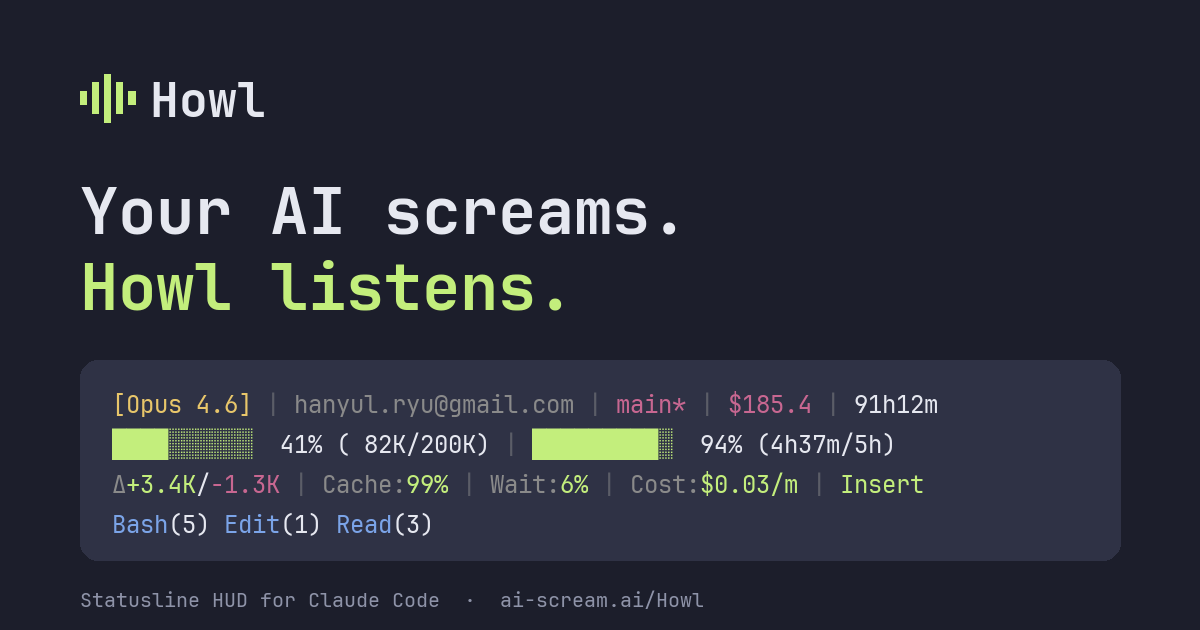
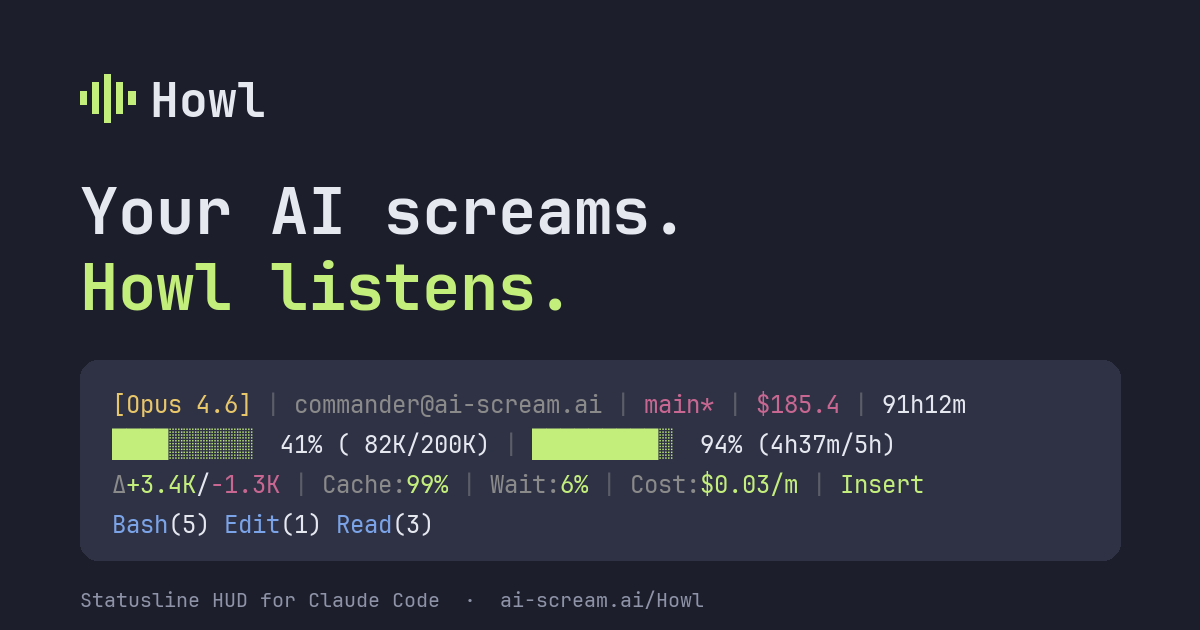
docs(site): strip template decoration, unify spacing and restore focus rings
Remove the hero glow, the pill eyebrow and the gradient headline word;
left-align the section introductions; flatten the feature cards; turn
the sponsor block into one line; replace two stock headings. Spacing
now sits on a 4/8 scale with three radii and a five-step type scale,
and every link and button shows a focus ring again. The demo account
becomes commander@ai-scream.ai in the page and the OG image.

Changed region(s): [[0.2467, 0.6333, 0.8017, 0.6635]]

diff --git a/site/index.html b/site/index.html
@@ -33,63 +33,62 @@
 }
 *{box-sizing:border-box}
 html{background:var(--bg)}
-body{margin:0;background:var(--bg);color:var(--text);font:16px/1.65 var(--body);padding-inline:clamp(16px,4vw,48px);overflow-x:hidden}
+body{margin:0;background:var(--bg);color:var(--text);font:16px/1.65 var(--body);padding-inline:clamp(16px,4vw,48px)}
 a{color:inherit}
+a:focus-visible,button:focus-visible{outline:2px solid var(--lime);outline-offset:3px}
 .wrap{max-width:1040px;margin:0 auto;position:relative}
-.moon{position:absolute;left:50%;top:-140px;width:720px;height:720px;max-width:100vw;transform:translateX(-50%);border-radius:50%;background:radial-gradient(circle at 50% 40%,rgba(195,238,124,.16),rgba(200,103,145,.09) 45%,transparent 70%);pointer-events:none;filter:blur(6px)}
-nav{position:relative;display:flex;align-items:center;justify-content:space-between;gap:16px;padding-block:22px;font-size:14px}
-.mark{display:flex;align-items:center;gap:10px;font-family:var(--display);font-weight:800;font-size:20px;letter-spacing:-.01em;text-decoration:none}
+nav{position:relative;display:flex;align-items:center;justify-content:space-between;gap:16px;padding-block:24px;font-size:14px}
+.mark{display:flex;align-items:center;gap:8px;font-family:var(--display);font-weight:800;font-size:20px;letter-spacing:-.01em;text-decoration:none}
 .mark svg{display:block}
-nav ul{display:flex;gap:6px;list-style:none;margin:0;padding:0}
-nav ul a{text-decoration:none;color:var(--muted);padding:8px 12px;border-radius:999px}
-nav ul a:hover,nav ul a:focus-visible{background:var(--card);color:var(--text);outline:none}
-.hero{position:relative;text-align:center;padding-block:56px 40px;display:grid;gap:22px;justify-items:center}
-.pill{display:inline-flex;gap:8px;align-items:center;font-size:13px;color:var(--lime);background:rgba(195,238,124,.10);border:1px solid rgba(195,238,124,.25);border-radius:999px;padding:6px 14px}
-h1{font-family:var(--display);font-weight:800;font-size:clamp(42px,7.5vw,88px);line-height:1;letter-spacing:-.03em;margin:0;text-wrap:balance;max-width:12ch}
-h1 span{background:linear-gradient(90deg,var(--lime),var(--gold));-webkit-background-clip:text;background-clip:text;color:transparent}
-.lead{max-width:58ch;color:var(--muted);font-size:19px;margin:0}
+nav ul{display:flex;gap:8px;list-style:none;margin:0;padding:0}
+nav ul a{text-decoration:none;color:var(--muted);padding:8px 12px;border-radius:8px}
+nav ul a:hover{background:var(--card);color:var(--text)}
+.hero{position:relative;text-align:center;padding-block:56px 40px;display:grid;gap:24px;justify-items:center}
+.meta{margin:0;font:14px var(--mono);letter-spacing:.08em;color:var(--muted)}
+h1{font-family:var(--display);font-weight:800;font-size:clamp(48px,7.5vw,88px);line-height:1;letter-spacing:-.03em;margin:0;text-wrap:balance;max-width:12ch}
+h1 span{color:var(--lime)}
+.lead{max-width:58ch;color:var(--muted);font-size:20px;margin:0}
 .cta{display:flex;flex-wrap:wrap;gap:12px;justify-content:center}
-.btn{font:600 15px var(--body);border-radius:12px;padding:13px 22px;text-decoration:none;cursor:pointer;border:1px solid transparent}
+.btn{font:600 16px var(--body);border-radius:8px;padding:12px 24px;text-decoration:none;cursor:pointer;border:1px solid transparent}
 .btn-p{background:var(--lime);color:#1c1e2b}
-.btn-p:hover,.btn-p:focus-visible{background:#d9f7a0;outline:none}
+.btn-p:hover{background:#d9f7a0}
 .btn-s{background:var(--card);color:var(--text);border-color:var(--rule)}
-.btn-s:hover,.btn-s:focus-visible{border-color:var(--muted);outline:none}
+.btn-s:hover{border-color:var(--muted)}
 
-.hud-frame{width:100%;border:1px solid var(--rule);border-radius:16px;background:#2f3245;box-shadow:0 30px 80px rgba(0,0,0,.5),0 0 0 1px rgba(255,255,255,.03) inset;overflow:hidden;text-align:left}
-.hud-bar{display:flex;justify-content:space-between;align-items:center;flex-wrap:wrap;gap:10px 16px;padding:10px 14px;background:#272a3b;border-bottom:1px solid #3b3f55}
-.dots{display:flex;gap:6px}.dots i{width:10px;height:10px;border-radius:50%;background:#4a4e66;display:block}
+.hud-frame{width:100%;border:1px solid var(--rule);border-radius:12px;background:#2f3245;box-shadow:0 30px 80px rgba(0,0,0,.5),0 0 0 1px rgba(255,255,255,.03) inset;overflow:hidden;text-align:left}
+.hud-bar{display:flex;justify-content:space-between;align-items:center;flex-wrap:wrap;gap:8px 16px;padding:12px 16px;background:#272a3b;border-bottom:1px solid #3b3f55}
+.dots{display:flex;gap:8px}.dots i{width:10px;height:10px;border-radius:50%;background:#4a4e66;display:block}
 .tabs{display:flex;flex-wrap:wrap;gap:4px}
-.tabs button,.seg button{font:600 12px var(--body);color:#aeb3c7;background:transparent;border:0;border-radius:8px;padding:6px 10px;cursor:pointer}
+.tabs button,.seg button{font:600 14px var(--body);color:#aeb3c7;background:transparent;border:0;border-radius:8px;padding:8px 12px;min-height:36px;cursor:pointer}
 .tabs button:hover,.seg button:hover{color:var(--text);background:#3b3f55}
-.tabs button:focus-visible,.seg button:focus-visible{outline:2px solid var(--lime);outline-offset:1px}
 .tabs button[aria-pressed="true"]{background:#3b3f55;color:var(--text)}
-.seg{display:flex;gap:2px;background:#1f2231;border-radius:10px;padding:2px}
+.seg{display:flex;gap:2px;background:#1f2231;border-radius:8px;padding:2px}
 .seg button[aria-pressed="true"]{background:var(--lime);color:#1c1e2b}
 .seg button[disabled]{opacity:.35;cursor:default}
-.hud{color:#d8dbe6;font:14px/1.75 var(--mono);padding:14px 16px;overflow-x:auto;white-space:pre;font-variant-numeric:tabular-nums;margin:0;min-height:calc(14px*1.75*4 + 28px)}
+.hud{color:#d8dbe6;font:14px/1.75 var(--mono);padding:16px;overflow-x:auto;white-space:pre;font-variant-numeric:tabular-nums;margin:0;min-height:calc(14px*1.75*4 + 32px)}
 .hud .sep{color:#5b5d67}.hud .grey{color:#a3a7b8}.hud .dim{color:#979bad}.hud .gold{color:#e8c66a}.hud .lime{color:#c3ee7c}.hud .pink{color:#c86791}.hud .orange{color:#ff8700}.hud .blue{color:#7ba4e8}.hud .cyan{color:#6ccbd9}.hud .b{font-weight:700}
-.hud-foot{display:flex;justify-content:space-between;flex-wrap:wrap;gap:6px 16px;padding:8px 16px;border-top:1px solid #3b3f55;font:12px var(--mono);color:#a3a7b8}
+.hud-foot{display:flex;justify-content:space-between;flex-wrap:wrap;gap:8px 16px;padding:8px 16px;border-top:1px solid #3b3f55;font:14px var(--mono);color:#a3a7b8}
 
-.install{width:100%;max-width:640px;display:grid;grid-template-columns:1fr auto;border:1px solid var(--rule);border-radius:14px;background:var(--card);overflow:hidden;text-align:left}
-.install pre{margin:0;padding:14px 18px;font:14px/1.7 var(--mono);overflow-x:auto}
+.install{width:100%;max-width:640px;display:grid;grid-template-columns:1fr auto;border:1px solid var(--rule);border-radius:12px;background:var(--card);overflow:hidden;text-align:left}
+.install pre{margin:0;padding:16px;font:14px/1.7 var(--mono);overflow-x:auto}
 .install pre b{color:var(--lime);font-weight:400}
-.install button{font:600 13px var(--body);background:var(--card2);color:var(--text);border:0;border-left:1px solid var(--rule);padding:0 18px;cursor:pointer}
-.install button:hover,.install button:focus-visible{background:#3b3f55;outline:none}
+.install button{font:600 14px var(--body);background:var(--card2);color:var(--text);border:0;border-left:1px solid var(--rule);padding:0 16px;cursor:pointer}
+.install button:hover{background:#3b3f55}
 section{position:relative;padding-block:56px}
-h2{font-family:var(--display);font-weight:700;font-size:clamp(28px,4vw,44px);line-height:1.05;letter-spacing:-.02em;margin:0 0 10px;text-align:center;text-wrap:balance}
-.sub{color:var(--muted);margin:0 auto 32px;max-width:60ch;text-align:center}
+h2{font-family:var(--display);font-weight:700;font-size:clamp(32px,4vw,48px);line-height:1.05;letter-spacing:-.02em;margin:0 0 12px;text-align:left;max-width:24ch;text-wrap:balance}
+.sub{color:var(--muted);margin:0 0 32px;max-width:60ch;text-align:left}
 .grid{display:grid;grid-template-columns:repeat(auto-fit,minmax(230px,1fr));gap:16px}
-.card{background:var(--card);border:1px solid var(--rule);border-radius:16px;padding:22px;display:grid;gap:10px;align-content:start}
-.card .seg-ex{font-family:var(--mono);font-size:13px;background:#2f3245;border-radius:8px;padding:8px 10px;white-space:nowrap;overflow:hidden;text-overflow:ellipsis;color:#d8dbe6}
+.card{background:transparent;border:0;border-top:2px solid var(--rule);border-radius:0;padding:16px 0 0;display:grid;gap:8px;align-content:start}
+.card .seg-ex{font-family:var(--mono);font-size:14px;background:#2f3245;border-radius:4px;padding:8px 12px;white-space:nowrap;overflow:hidden;text-overflow:ellipsis;color:#d8dbe6}
 .card h3{font-family:var(--display);font-weight:700;font-size:20px;margin:4px 0 0}
-.card p{margin:0;color:var(--muted);font-size:15px}
-.presets{display:grid;grid-template-columns:repeat(auto-fit,minmax(200px,1fr));gap:14px}
-.preset{background:var(--card);border:1px solid var(--rule);border-radius:14px;padding:18px;text-align:left;cursor:pointer;color:inherit;font:inherit}
-.preset:hover,.preset:focus-visible{border-color:var(--lime);outline:none}
+.card p{margin:0;color:var(--muted);font-size:16px}
+.presets{display:grid;grid-template-columns:repeat(auto-fit,minmax(200px,1fr));gap:16px}
+.preset{background:var(--card);border:1px solid var(--rule);border-radius:12px;padding:16px;text-align:left;cursor:pointer;color:inherit;font:inherit}
+.preset:hover{border-color:var(--lime)}
 .preset code{font-family:var(--mono);font-size:14px;color:var(--gold)}
-.preset p{margin:6px 0 0;color:var(--muted);font-size:14px}
-.sponsor{display:grid;justify-items:center;gap:12px;text-align:center;background:linear-gradient(180deg,var(--card),var(--bg));border:1px solid var(--rule);border-radius:20px;padding:36px 20px}
-footer{padding-block:28px 40px;border-top:1px solid var(--rule);display:flex;flex-wrap:wrap;gap:8px 28px;justify-content:space-between;font-size:13px;color:var(--muted)}
+.preset p{margin:8px 0 0;color:var(--muted);font-size:14px}
+.support{margin:0;padding-block:24px 0;color:var(--muted);font-size:14px;max-width:60ch}
+footer{padding-block:32px 40px;border-top:1px solid var(--rule);display:flex;flex-wrap:wrap;gap:8px 32px;justify-content:space-between;font-size:14px;color:var(--muted)}
 footer a{text-decoration:none}footer a:hover{color:var(--text)}
 @media (max-width:560px){.install{grid-template-columns:1fr}.install button{padding:12px;border-left:0;border-top:1px solid var(--rule)}}
 @media (prefers-reduced-motion:reduce){*{transition:none!important}}
@@ -97,14 +96,13 @@ footer a{text-decoration:none}footer a:hover{color:var(--text)}
 </head>
 <body>
 <div class="wrap">
-<div class="moon" aria-hidden="true"></div>
 <nav>
   <a class="mark" href="#top" aria-label="Howl"><svg width="26" height="20" viewBox="0 0 26 20" aria-hidden="true"><g fill="#c3ee7c"><rect x="0" y="8" width="3" height="4"/><rect x="5" y="4" width="3" height="12"/><rect x="10" y="0" width="3" height="20"/><rect x="15" y="4" width="3" height="12"/><rect x="20" y="8" width="3" height="4"/></g></svg>Howl</a>
   <ul><li><a href="#features">Features</a></li><li><a href="#install">Install</a></li><li><a href="https://github.com/ai-screams/howl">GitHub</a></li></ul>
 </nav>
 
 <header class="hero" id="top">
-  <span class="pill">Statusline HUD for Claude Code · Go · ~10ms</span>
+  <p class="meta">STATUSLINE HUD FOR CLAUDE CODE · GO · ~10MS</p>
   <h1>Your AI screams. <span>Howl</span> listens.</h1>
   <p class="lead">Context, quota, cache and cost in the status line. Read from stdin, computed in Go, rendered before you notice. No network calls, no dependencies.</p>
   <div class="cta"><a class="btn btn-p" href="#install">Install the plugin</a><a class="btn btn-s" href="https://github.com/ai-screams/howl/releases/latest">Download binary</a></div>
@@ -125,7 +123,7 @@ footer a{text-decoration:none}footer a:hover{color:var(--text)}
         <button type="button" data-mode="danger" aria-pressed="false">Danger</button>
       </div>
     </div>
-    <pre class="hud" id="hud-lines"><span class="gold b">[Opus 4.6]</span><span class="sep"> | </span><span class="grey">hanyul.ryu@gmail.com</span><span class="sep"> | </span><span class="pink">main*</span><span class="sep"> | </span><span class="grey">Out:1K</span><span class="sep"> | </span><span class="pink b">$185.4</span><span class="sep"> | </span>91h12m
+    <pre class="hud" id="hud-lines"><span class="gold b">[Opus 4.6]</span><span class="sep"> | </span><span class="grey">commander@ai-scream.ai</span><span class="sep"> | </span><span class="pink">main*</span><span class="sep"> | </span><span class="grey">Out:1K</span><span class="sep"> | </span><span class="pink b">$185.4</span><span class="sep"> | </span>91h12m
 <span class="lime">████░░░░░░</span>  41% ( 82K/200K)<span class="sep"> | </span><span class="lime">█████████░</span>  94% (4h37m/5h)<span class="sep"> | </span><span class="lime">███████░░░</span>  79% (2d21h/7d)
 <span class="grey">Δ</span><span class="lime">+3.4K</span>/<span class="pink">-1.3K</span><span class="sep"> | </span><span class="grey">Cache:</span><span class="lime">99%</span><span class="grey">(W:0K/R:82K)</span><span class="sep"> | </span><span class="grey">Wait:</span><span class="lime">6%</span><span class="sep"> | </span><span class="grey">Cost:</span><span class="lime">$0.03/m</span><span class="sep"> | </span><span class="lime">Insert</span><span class="sep"> | </span><span class="grey">v2.1.39</span>
 <span class="blue">Bash</span>(5) <span class="blue">Edit</span>(1) <span class="blue">Read</span>(3)<span class="sep"> | </span><span class="gold">▶</span><span class="cyan">explore</span></pre>
@@ -134,7 +132,7 @@ footer a{text-decoration:none}footer a:hover{color:var(--text)}
 </header>
 
 <section id="features">
-  <h2>Everything a session needs to say</h2>
+  <h2>Context, quota, cache and cost at a glance</h2>
   <p class="sub">Every segment is one metric with its own color thresholds. Turn any of them off.</p>
   <div class="grid">
     <div class="card"><div class="seg-ex"><span style="color:#ff8700">████████░░</span> 71% <span style="color:#a3a7b8">(142K/200K)</span></div><h3>Context health</h3><p>A ten-character bar with absolute tokens, not just a percentage. Formats as K or M, so a 1M window reads the same way.</p></div>
@@ -155,8 +153,8 @@ footer a{text-decoration:none}footer a:hover{color:var(--text)}
   </div>
 </section>
 
-<section id="install" style="display:grid;justify-items:center">
-  <h2>Up in one session</h2>
+<section id="install">
+  <h2>Install from Claude Code</h2>
   <p class="sub">Howl ships as a Claude Code plugin from its own marketplace. Setup downloads the binary for your OS and writes the status line setting for you.</p>
   <div class="install">
     <pre id="cmd-install"><b>/plugin</b> marketplace add ai-screams/howl
@@ -166,13 +164,7 @@ footer a{text-decoration:none}footer a:hover{color:var(--text)}
   </div>
 </section>
 
-<section>
-  <div class="sponsor">
-    <h2 style="font-size:26px">Keep Howl listening</h2>
-    <p class="sub" style="margin:0">Howl is free and MIT licensed. If it earns a place in your terminal, a sponsorship helps it stay maintained.</p>
-    <a class="btn btn-s" href="https://github.com/sponsors/ai-screams">Sponsor on GitHub</a>
-  </div>
-</section>
+<p class="support">Howl is free and MIT licensed. If it earns a place in your terminal, <a href="https://github.com/sponsors/ai-screams">sponsoring on GitHub</a> helps keep it maintained.</p>
 
 <footer>
   <span>An <a href="https://ai-scream.ai">Ai-Scream</a> project · MIT</span>
@@ -217,7 +209,7 @@ footer a{text-decoration:none}footer a:hover{color:var(--text)}
   const dur=m=>m<1?span('grey','<1m'):m<60?m+'m':Math.floor(m/60)+'h'+(m%60)+'m';
 
   // Sample session. Only pct, cost and minutes move.
-  const D={model:'Opus 4.6',ctx:200000,email:'hanyul.ryu@gmail.com',branch:'main',dirty:true,project:'Howl',
+  const D={model:'Opus 4.6',ctx:200000,email:'commander@ai-scream.ai',branch:'main',dirty:true,project:'Howl',
     added:3412,removed:1287,cacheW:0,wait:6,vel:0.03,out:1000,vim:'Insert',version:'2.1.39',
     q5:{remain:94,until:'4h37m'},q7:{remain:79,until:'2d21h'},tools:[['Bash',5],['Edit',1],['Read',3]],agents:['explore']};
   let pct=41,cost=185.4,mins=5472,preset='full',mode='auto';
